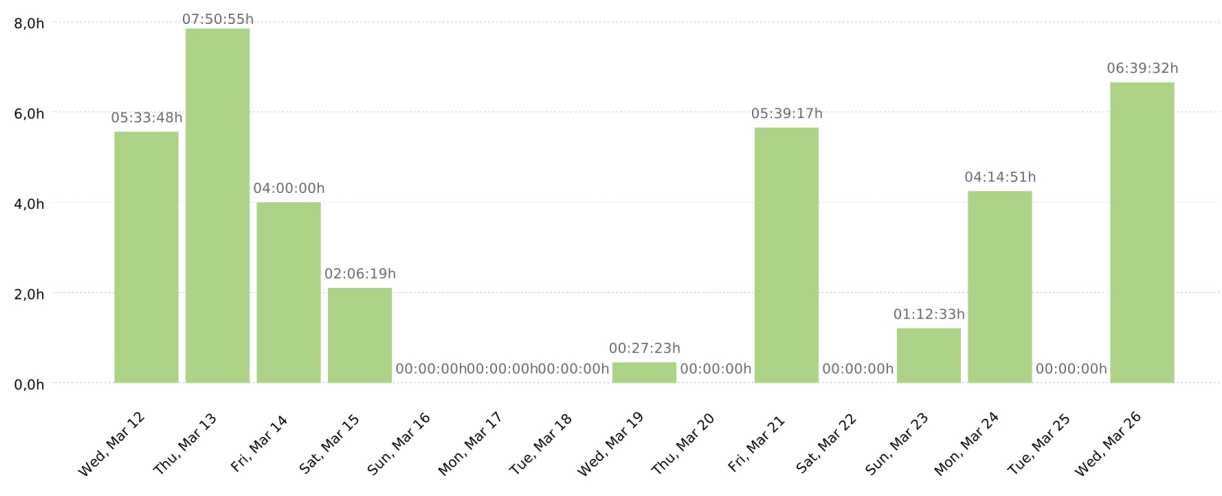
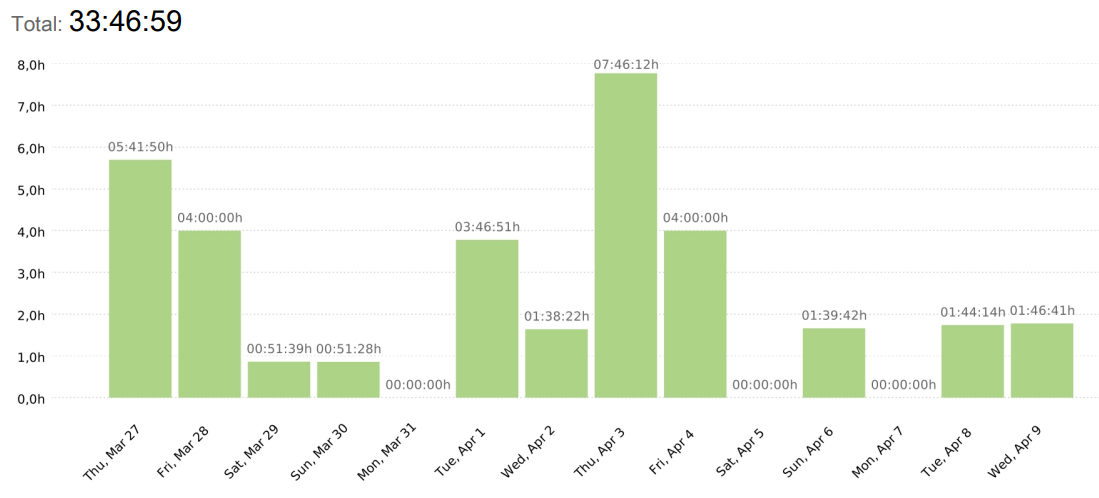
docs(sprint3): time report Sergio

diff --git a/docs/Sprint_3/timeEffortReport.md b/docs/Sprint_3/timeEffortReport.md
@@ -37,6 +37,7 @@
 |-------------|---------------|---------------------------|-------------------------|
 | 08/04/2025  | v 1.0         | Versión inicial del documento - Parte de Dani | Daniel Flores de Francisco |
 | 08/04/2025  | v 1.1         | Informe de Luis| Luis Mellado Díaz |
+| 09/04/2025  | v 1.2         | Informe de Sergio| Sergio Trenado González|
 
 
 
@@ -122,29 +123,29 @@
 
 ## Reporte de tiempo de Sergio Trenado Gonzalez
 
-**Periodo:** 12/03/2025 - 26/03/2025
-**Total de tiempo trabajado:** 37:44:38
+**Periodo:** 27/03/2025 - 09/04/2025
+**Total de tiempo trabajado:** 33:46:59
 
 ### Proyecto Pawtel - Distribución del tiempo
 
-| Descripción                                      | Duración    |
-|-------------------------------------------------|------------|
-| Feature: Conectar Backend y Frontend            | 05:33:48   |
-| Revisión + Mejora de PR + Feature: Pulir detalles de las pantallas | 05:06:36   |
-| Feature: Pulir detalles de las pantallas        | 04:31:22   |
-| Clase 14 marzo                                  | 04:00:00   |
-| Clase 21 marzo                                  | 04:00:00   |
-| Feature: Adaptar componentes y pantallas + Cosas extras | 03:27:02   |
-| Feature: Adaptar componentes y pantallas        | 02:55:57   |
-| Juntando Docs de Mejoras Frontend + Revisando PRs | 01:29:13   |
-| Puliendo pantallas + nuevos filtros de ordenamiento + imágenes nuevas | 01:27:56   |
-| Reunión Inicio Sprint 2                         | 01:14:51   |
-| Frontend Organización Sprint 2                  | 01:04:01   |
-| Reunión Mitad Sprint 2                          | 01:00:00   |
-| Feature: Pulir detalles de las pantallas + Revisando PRs | 00:35:37   |
-| Revisando PRs                                   | 00:27:49   |
-| Documento de metodología para Frontend          | 00:27:23   |
-| Frontend Organización                           | 00:23:03   |
+| Descripción                                                                                                      | Duración  |
+|------------------------------------------------------------------------------------------------------------------|-----------|
+| Clase 28 marzo                                                                                                   | 04:00:00  |
+| Clase 4 abril                                                                                                    | 04:00:00  |
+| Mejorar estilo de imágenes + Feature: Mejorar pantalla de "Detalles de hotel"                                     | 03:57:04  |
+| PRs + Informe de horas + Feature: Pulir detalles de las pantallas                                                | 03:41:39  |
+| Mejorando PR (CRUD Hoteles) + Feature: Mejorar pantalla de "Mis reservas" + Feature: Mejorar pantalla de "Detalles de hotel" | 03:01:00  |
+| Mejorando PR (CRUD Hoteles)                                                                                      | 02:46:10  |
+| Revisando + Mejorando PR (CRUD Hoteles)                                                                          | 02:01:01  |
+| Terminos y condiciones + Fixeos + Iconos PWA                                                                     | 02:00:11  |
+| Puliendo ultimos detalles y mejorando pantalla de admin                                                          | 01:46:41  |
+| Arreglando diversas cosas del proyecto                                                                           | 01:44:14  |
+| Mejorando el estilo y añadiendo paginaciones                                                                      | 01:39:42  |
+| Reunión Inicio Sprint 3                                                                                          | 00:51:39  |
+| Frontend Organización Sprint 3                                                                                   | 00:51:28  |
+| Feature: Mejorar pantalla de "Mis reservas" + Feature: Mejorar pantalla de "Detalles de hotel"                     | 00:48:08  |
+| Revisando PRs                                                                                                    | 00:38:02  |
+
 
 ![grafico-de-tiempos](graficas/sergio.png)
 ---
